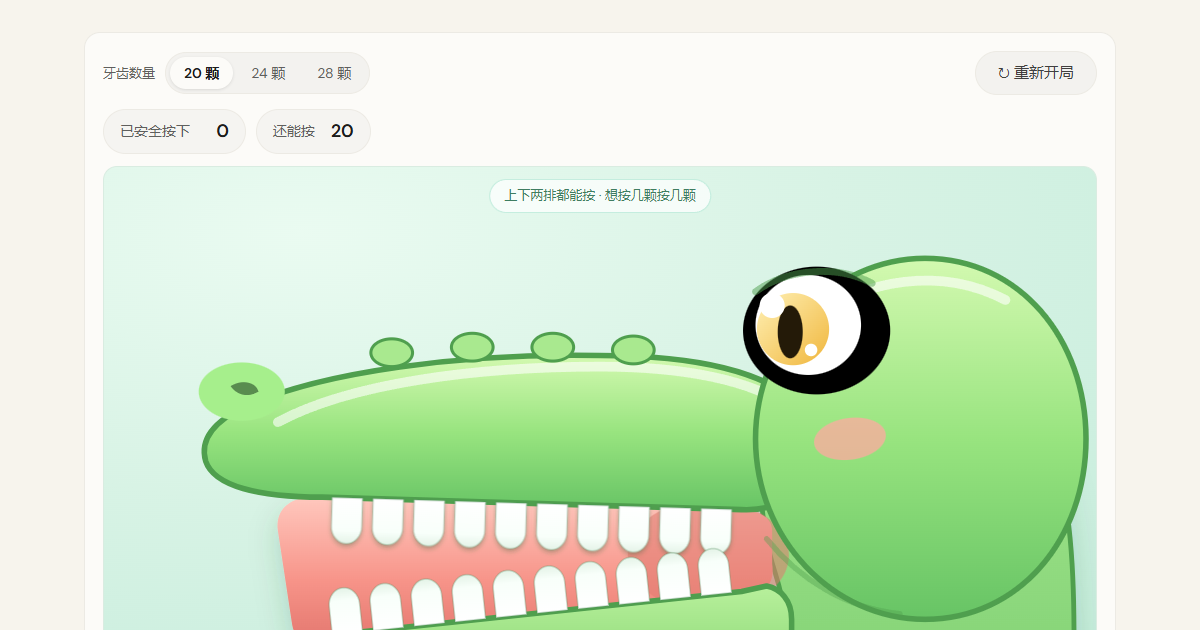
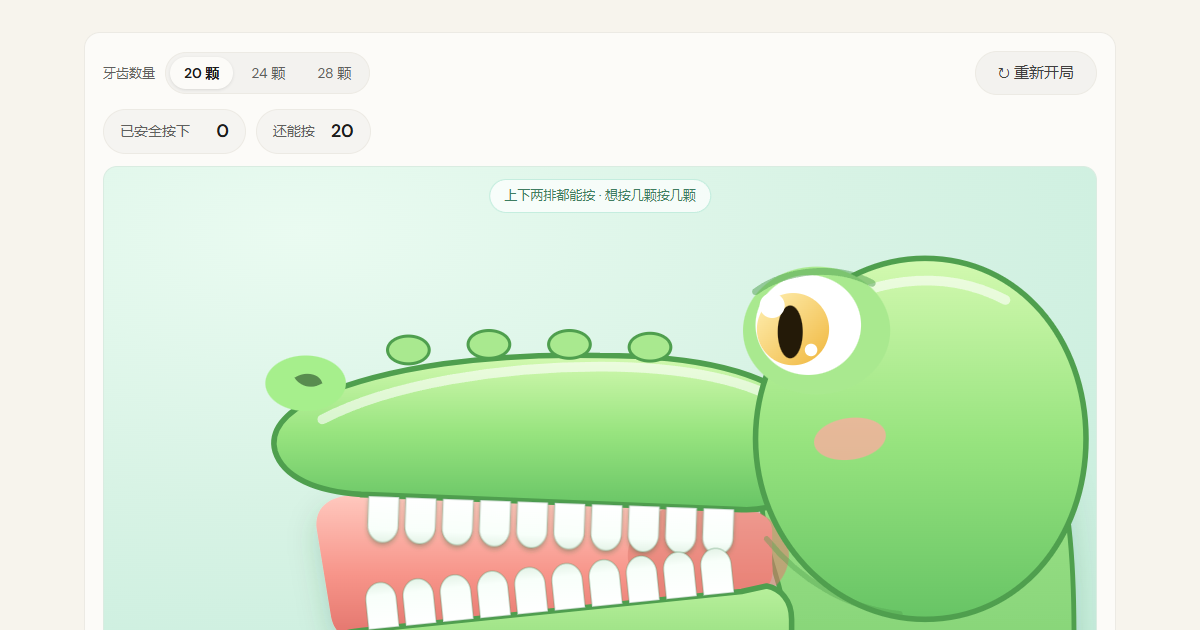
缩短吻部，修复眼睛外的黑色圈（眼包缺样式导致默认黑色）

Changed region(s): [[0.1542, 0.5127, 0.6167, 1.0], [0.6167, 0.4222, 0.74, 0.6333]]

diff --git a/index.html b/index.html
@@ -149,31 +149,31 @@
             <ellipse class="scute" cx="668" cy="158" rx="15" ry="10"/>
 
             <!-- 口腔（粉嫩） -->
-            <path class="mouth" d="M452 241 L150 232 C128 230 116 240 118 256 L128 322 C130 338 142 344 160 340 L452 304 C470 302 476 294 474 280 L474 256 C474 246 464 242 452 241 Z"/>
+            <path class="mouth" d="M452 241 L178 231 C156 229 144 239 146 255 L156 316 C158 332 170 338 188 334 L452 304 C470 302 476 294 474 280 L474 256 C474 246 464 242 452 241 Z"/>
             <ellipse class="throat" cx="428" cy="274" rx="58" ry="40" opacity="0.55"/>
-            <path class="tongue" d="M210 336 C270 326 350 316 430 310 C410 340 340 354 270 350 C236 348 214 344 210 336 Z"/>
+            <path class="tongue" d="M238 332 C292 322 362 314 430 310 C410 340 340 354 288 350 C258 348 242 340 238 332 Z"/>
           </g>
 
           <!-- 上颚（长吻，咬合时以关节转动） -->
           <g id="upperJaw" class="upper-jaw">
-            <path class="jaw-up" d="M494 166 C470 142 420 130 350 130 C250 128 150 142 96 166 C70 178 62 192 66 206 C72 224 104 232 150 232 L452 241 C476 242 490 233 494 214 C497 196 496 180 494 166 Z"/>
-            <path class="rim" d="M118 178 C170 150 260 138 350 138 C410 138 462 148 486 168"/>
-            <ellipse class="scute" cx="200" cy="128" rx="15" ry="10"/>
-            <ellipse class="scute" cx="258" cy="124" rx="15" ry="10"/>
-            <ellipse class="scute" cx="316" cy="124" rx="15" ry="10"/>
-            <ellipse class="scute" cx="374" cy="126" rx="15" ry="10"/>
-            <ellipse class="nostril-bump" cx="92" cy="156" rx="31" ry="21"/>
-            <path class="nostril" d="M84 152 C92 147 102 149 104 156 C96 161 88 158 84 152 Z"/>
-            <path class="lip" d="M150 232 L452 241"/>
+            <path class="jaw-up" d="M494 166 C470 142 420 130 350 130 C272 128 196 138 146 160 C122 171 112 185 116 199 C122 218 146 228 178 230 L452 241 C476 242 490 233 494 214 C497 196 496 180 494 166 Z"/>
+            <path class="rim" d="M150 176 C200 150 280 138 350 138 C410 138 462 148 486 168"/>
+            <ellipse class="scute" cx="212" cy="126" rx="15" ry="10"/>
+            <ellipse class="scute" cx="270" cy="122" rx="15" ry="10"/>
+            <ellipse class="scute" cx="328" cy="122" rx="15" ry="10"/>
+            <ellipse class="scute" cx="386" cy="124" rx="15" ry="10"/>
+            <ellipse class="nostril-bump" cx="138" cy="150" rx="29" ry="20"/>
+            <path class="nostril" d="M130 146 C138 141 148 143 150 150 C142 155 134 152 130 146 Z"/>
+            <path class="lip" d="M178 231 L452 241"/>
             <g id="upperTeeth"></g>
           </g>
 
           <!-- 下颚 -->
           <g id="lowerJaw" class="lower-jaw">
-            <path class="jaw-low" d="M470 296 L452 300 L150 332 C128 334 118 344 122 358 C126 378 148 392 178 396 C260 410 360 408 424 394 C462 386 486 368 488 346 L488 320 C488 306 480 298 470 296 Z"/>
+            <path class="jaw-low" d="M470 296 L452 300 L178 328 C156 330 146 340 150 354 C154 374 176 388 206 392 C282 406 360 406 424 394 C462 386 486 368 488 346 L488 320 C488 306 480 298 470 296 Z"/>
             <path class="belly" d="M132 372 C200 400 330 404 476 380 L482 396 C400 424 240 424 140 400 C132 396 130 384 132 372 Z"/>
-            <path class="lip" d="M150 332 L452 300"/>
-            <ellipse class="scute" cx="250" cy="372" rx="14" ry="9"/>
+            <path class="lip" d="M178 328 L452 300"/>
+            <ellipse class="scute" cx="262" cy="370" rx="14" ry="9"/>
             <ellipse class="scute" cx="308" cy="376" rx="14" ry="9"/>
             <ellipse class="scute" cx="366" cy="374" rx="14" ry="9"/>
             <g id="lowerTeeth"></g>

diff --git a/game.js b/game.js
@@ -28,8 +28,8 @@
 
   // 上颚下缘（牙根所在线）与下颚上缘（牙根所在线）
   // 上颚下缘 / 下颚上缘（牙齿严格长在这两条线上）
-  var UPPER_LIP = { x1: 150, y1: 232, x2: 452, y2: 241 };
-  var LOWER_LIP = { x1: 150, y1: 332, x2: 452, y2: 300 };
+  var UPPER_LIP = { x1: 178, y1: 231, x2: 452, y2: 241 };
+  var LOWER_LIP = { x1: 178, y1: 328, x2: 452, y2: 300 };
 
   var state = {
     total: 20,

diff --git a/styles.css b/styles.css
@@ -151,6 +151,7 @@ strong{font-weight:600;color:var(--charcoal);}
 .skull{fill:url(#gBody);stroke:#4f9f4e;stroke-width:4;}
 .rim{fill:none;stroke:rgba(255,255,255,.6);stroke-width:7;stroke-linecap:round;}
 .dots ellipse{fill:#4FAE55;opacity:.16;}
+.eye-bump{fill:#A9E98F;stroke:none;}
 .eye-white{fill:#ffffff;}
 .iris{fill:url(#gEye);}
 .pupil{fill:#241a08;}
